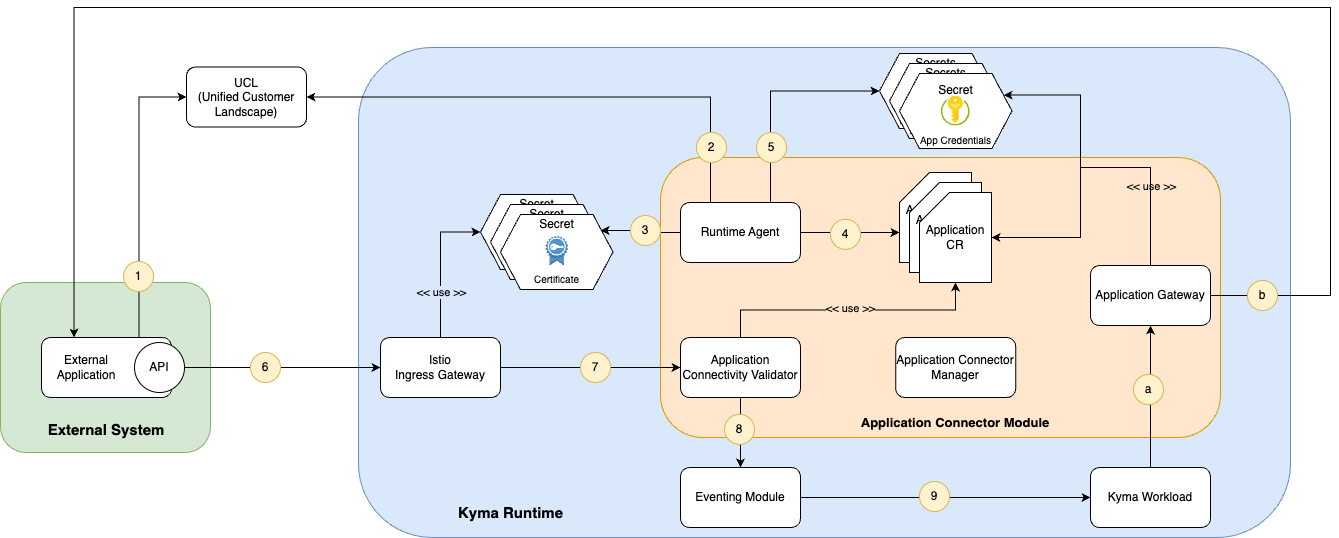
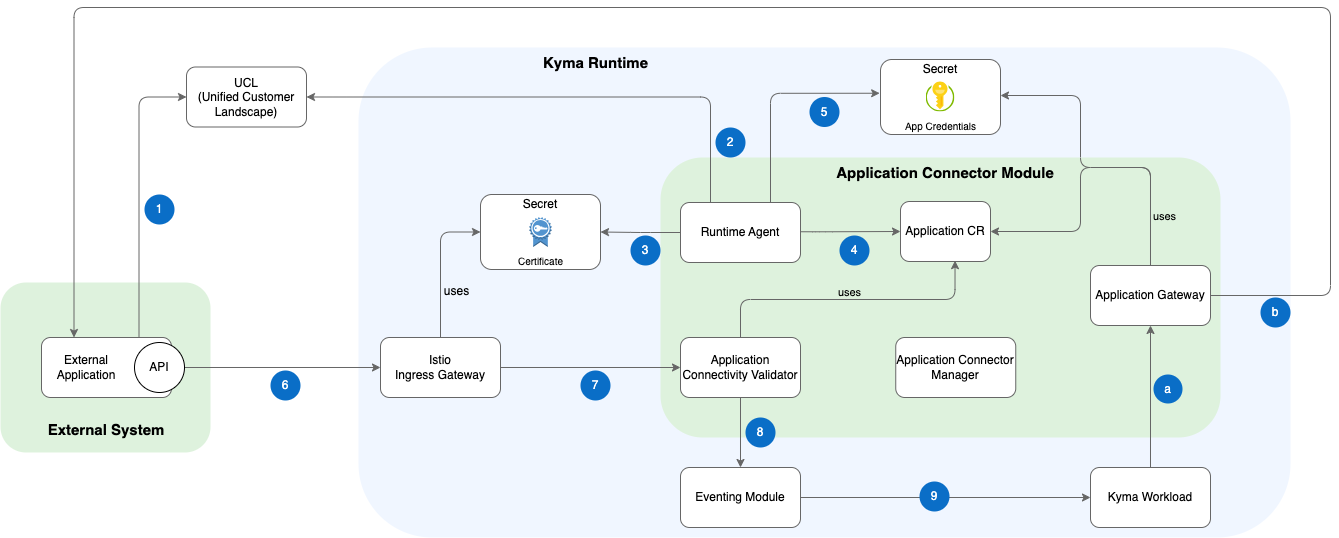
Change diagrams and fix AG diagram steps

diff --git a/docs/user/technical-reference/02-20-application-gateway.md b/docs/user/technical-reference/02-20-application-gateway.md
@@ -9,12 +9,11 @@ The following diagram illustrates how Application Gateway interacts with other m
 
 ![Application Gateway Diagram](../assets/gw-architecture.png)
 
-1. A Kyma workload calls the Application Gateway.
-2. Application Gateway extracts the application name and the service name from the URL path.
-3. Using the extracted application name, the gateway finds the corresponding Application CR and obtains the information about the registered external API, such as the API URL and security credentials.
-4. Application Gateway gets a token from the OAuth server.
-5.  This step is optional and is valid only for the API which was registered with a CSRF token enabled: Application Gateway gets a CSRF token from the endpoint exposed by the upstream service.
-6. Application Gateway calls the target API.
+1. A Kyma workload calls Application Gateway which extracts the application name and the service name from the URL path.
+2. Using the extracted application name, the gateway finds the corresponding Application CR and obtains the information about the registered external API, such as the API URL and security credentials.
+3. Application Gateway gets a token from the OAuth server.
+4.  This step is optional and is valid only for the API which was registered with a CSRF token enabled: Application Gateway gets a CSRF token from the endpoint exposed by the upstream service.
+5. Application Gateway calls the target API.
 
 
 ## Request Proxying
